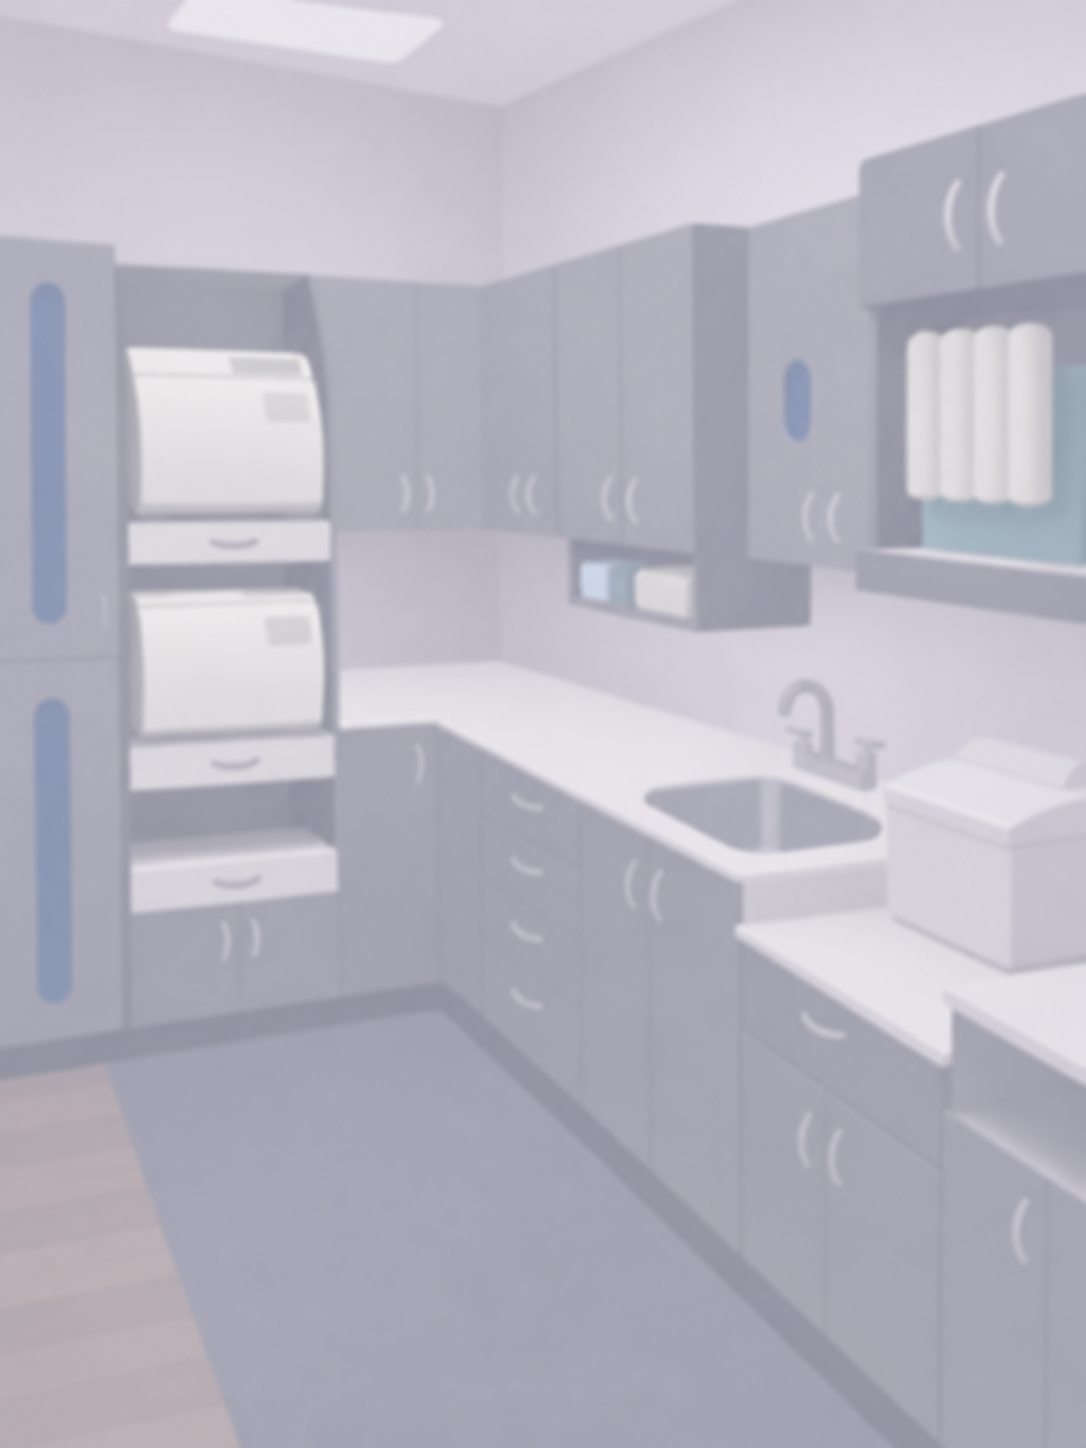
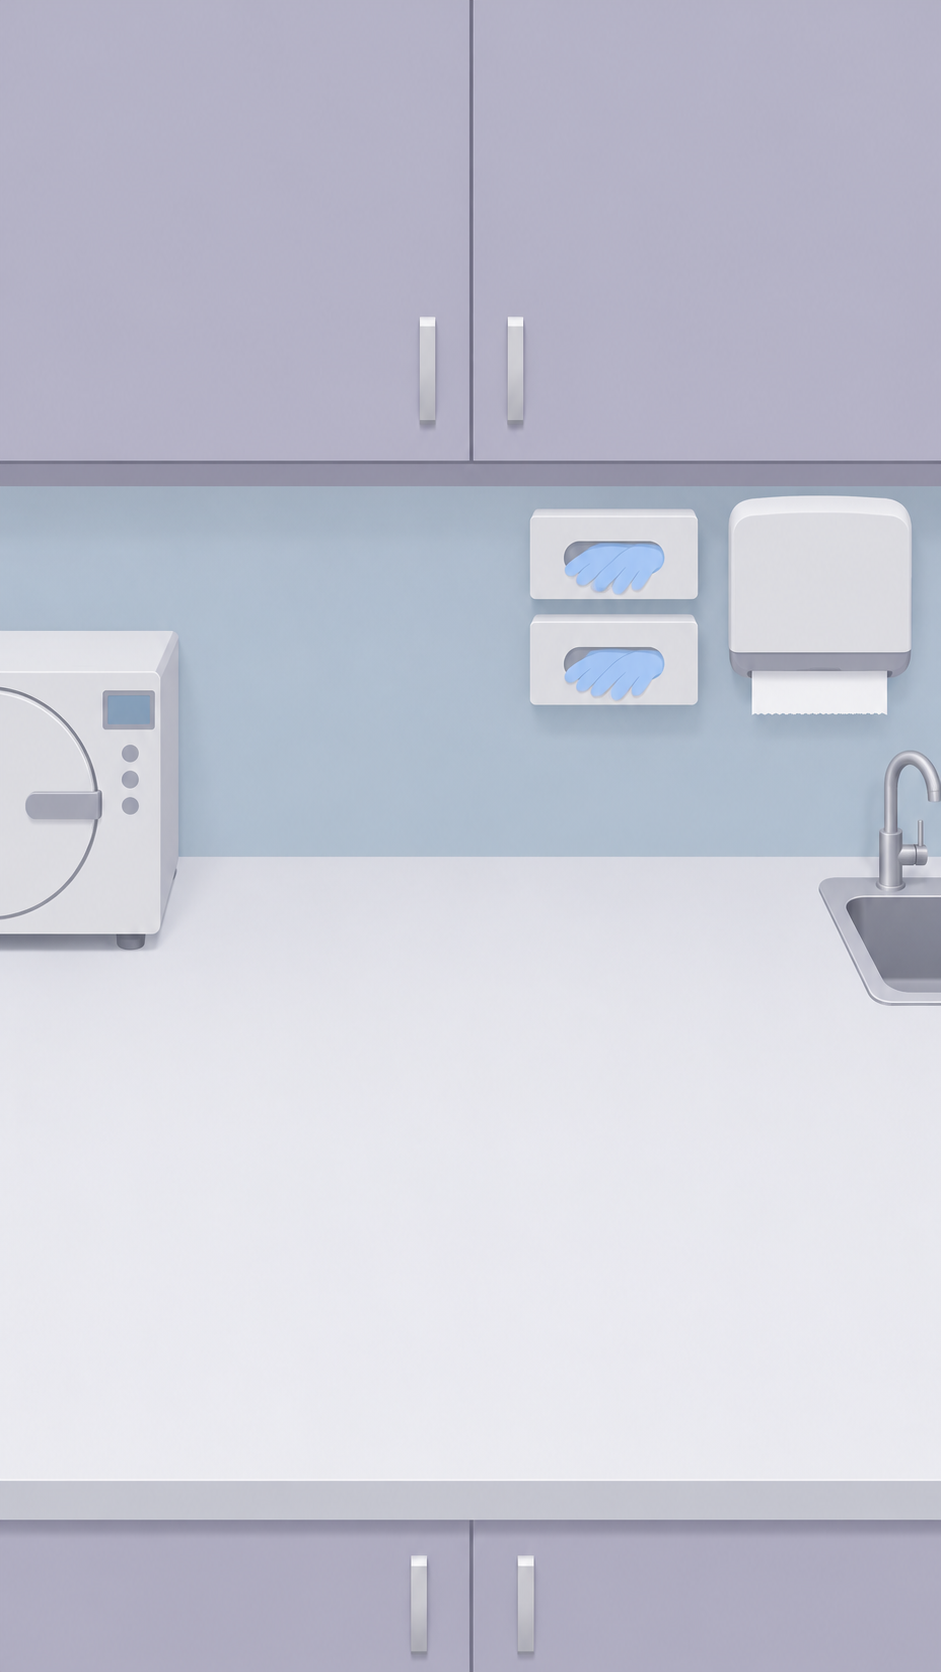
Use the new counter backdrop, stand the sort bins on the counter, and enlarge the sterile bags

diff --git a/style.css b/style.css
@@ -197,17 +197,17 @@ h2, h3 { font-weight: 800; }
   min-height: 0; border-radius: 28px; font-size: 1.1rem; font-weight: 700;
   background: none; box-shadow: none; /* the tool sits straight on the page, with no card around it */
 }
-.item img { max-height: 260px; max-width: 70%; object-fit: contain; }
+.item img { max-height: min(260px, 27dvh); max-width: 70%; object-fit: contain; }
 .item.wrong { background: rgba(243, 201, 210, 0.7); outline: 3px solid var(--wrong); }
 .item.moved { visibility: hidden; }
-[data-slot="bins"] { display: grid; grid-template-columns: 1fr 1fr; gap: 10px; }
+[data-slot="bins"] { display: grid; grid-template-columns: 1.2fr 1fr; gap: 10px; margin-bottom: 14%; } /* the bins stand on the counter in the room picture */
 .bin {
   display: flex; flex-direction: column; align-items: center; gap: 6px;
-  min-height: 120px; padding: 12px; border: 3px solid transparent; border-radius: 28px;
+  min-height: 120px; padding: 12px 4px; border: 3px solid transparent; border-radius: 28px; white-space: nowrap;
   background: none; box-shadow: none; color: var(--text); font-weight: 700; /* just the picture and its name */
 }
 .bin:active:not(:disabled) { box-shadow: none; }
-.bin img { height: 130px; width: 100%; object-fit: contain; } /* one slot size, so both labels line up */
+.bin img { height: min(190px, 21dvh); width: 100%; object-fit: contain; object-position: center bottom; } /* one slot size, standing on the counter, so both labels line up */
 .bin.correct { border-color: var(--accent); background: var(--accent-2); }
 .note { font-size: 0.8rem; opacity: 0.85; margin: 0; }
 
